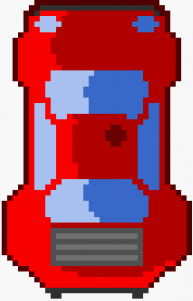
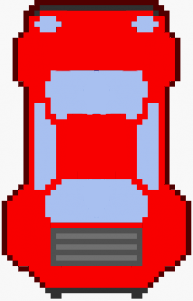
Changements graphiques
Terrain gris
+ ajout canal alpha pour les voiture 0-2

diff --git a/testGamePad.html b/testGamePad.html
@@ -9,7 +9,7 @@
  
     </head>
     <body>
-	<canvas id="gameScene" width="1000" height="600" style="border:1px solid; border-radius:2px;"  ></canvas>
+	<canvas id="gameScene" width="1000" height="600" style="border:1px solid; border-radius:2px; background-color: #666666"  ></canvas>
 	<div id="generalPrompt"></div>    
 	<div id="gamepadPrompt"></div>
     <div id="gamepadDisplay"></div>
